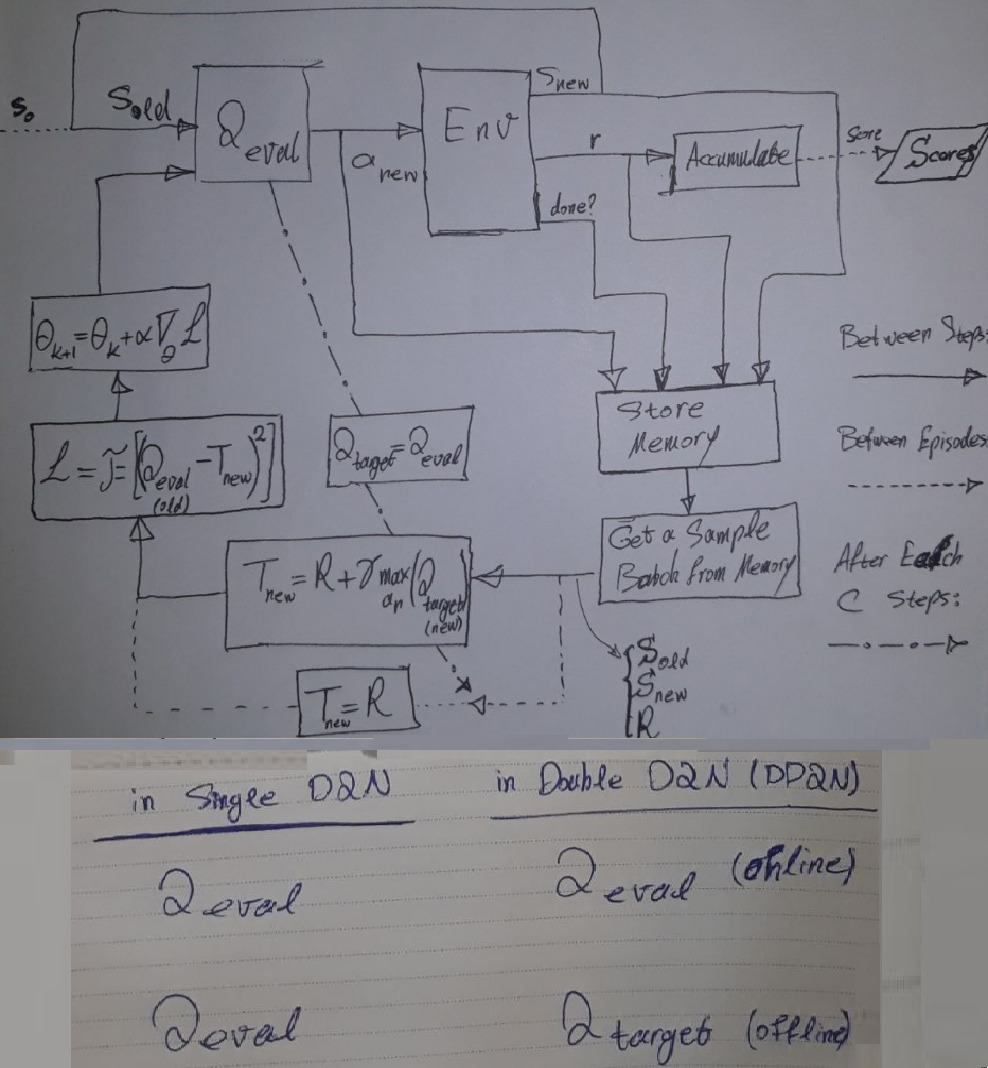
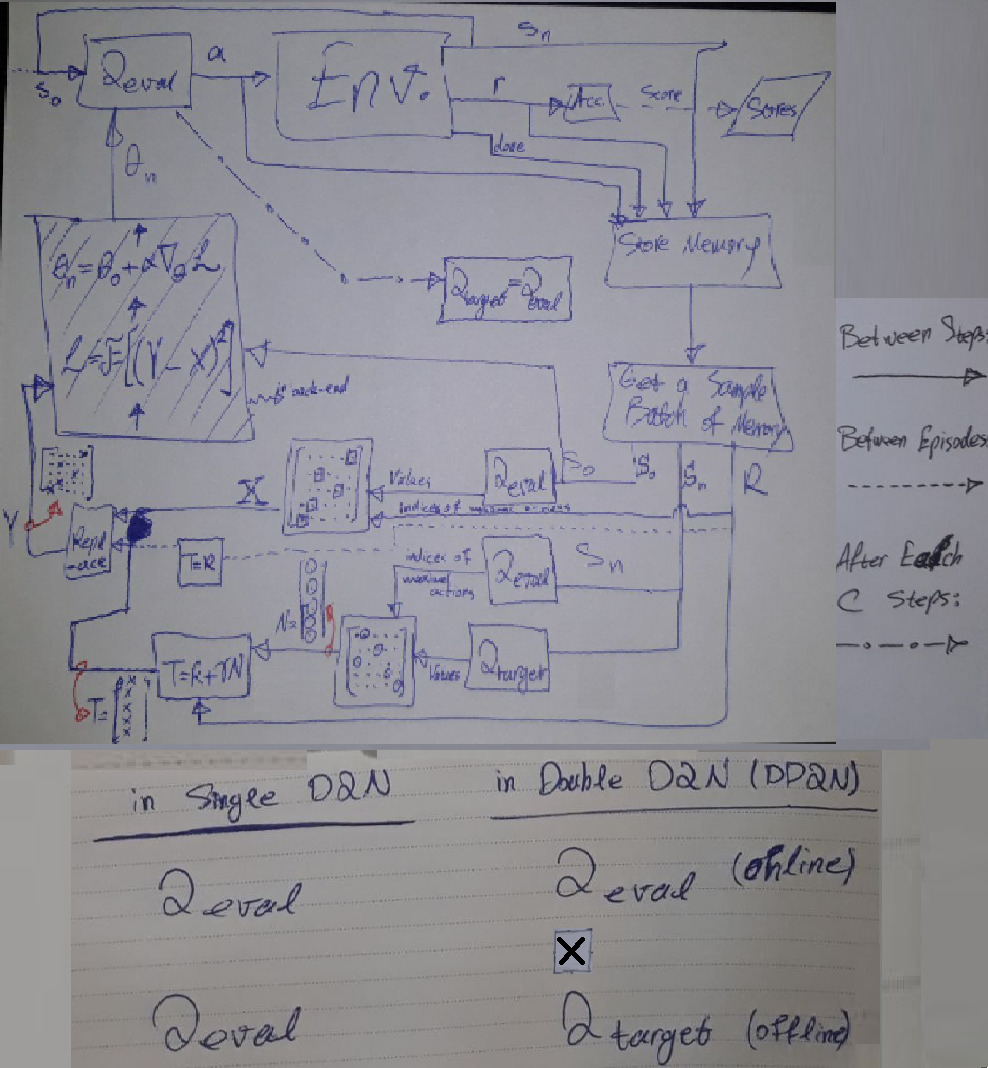
ddqn flowchart refined

Changed region(s): [[0.0, 0.0, 1.0, 0.7107], [0.5466, 0.8652, 0.6073, 0.927], [0.8198, 0.2472, 0.8502, 0.2781]]

diff --git a/samples/DRL/DQN/keras_ddqn_agent.py b/samples/DRL/DQN/keras_ddqn_agent.py
@@ -3,45 +3,24 @@ from keras.models import Sequential, load_model
 from keras.optimizers import Adam
 import numpy as np
 
-# This is a DRL agent, developed based on keras (not tf2!)
-
-# To access each "LINK", read the "README.md" in the current folder.
-
-# NOTE: The last DRL code sample has been the LINK-11 (agent) and LINK-10 (training). Thus, the 
-# code comments are continued from there
-
-
 class ReplayBuffer(object):
-
     def __init__(self, max_size, input_shape, n_actions, discrete=False):
-    
         self.mem_size = max_size
         self.mem_cntr = 0
+        self.discrete = discrete
         self.state_memory = np.zeros((self.mem_size, input_shape))
         self.new_state_memory = np.zeros((self.mem_size, input_shape))
         dtype = np.int8 if self.discrete else np.float32
         self.action_memory = np.zeros((self.mem_size, n_actions), dtype=dtype)
         self.reward_memory = np.zeros(self.mem_size)
         self.terminal_memory = np.zeros(self.mem_size, dtype=np.float32)
-        
-        self.discrete = discrete
-        # 
-        # This is for incorporating both discrete and continuous action-space cases in the agent
-        # TOPIC: (DRL/GEN) When is One-Hot Encoding Necessary?
-        # In DRL, a "one-hot encoding" is performed when the action-space (the outputs of the 
-        # neural network) is discrete; Not continuous.
-
 
     def store_transition(self, state, action, reward, state_, done):
         index = self.mem_cntr % self.mem_size
         self.state_memory[index] = state
         self.new_state_memory[index] = state_
-        
         # store one hot encoding of actions, if appropriate
         if self.discrete:
-            # TOPIC: (DRL/GEN) Performing One-Hot Encoding on the Network Outputs
-            # This is same as LINK-14/TAG-1
-            # 
             actions = np.zeros(self.action_memory.shape[1])
             actions[action] = 1.0
             self.action_memory[index] = actions
@@ -51,9 +30,6 @@ class ReplayBuffer(object):
         self.terminal_memory[index] = 1 - done
         self.mem_cntr += 1
 
-
-    # To what it is, take a look at LINK-6/TAG-5
-    # 
     def sample_buffer(self, batch_size):
         max_mem = min(self.mem_cntr, self.mem_size)
         batch = np.random.choice(max_mem, batch_size)
@@ -66,9 +42,7 @@ class ReplayBuffer(object):
 
         return states, actions, rewards, states_, terminal
 
-
 def build_dqn(lr, n_actions, input_dims, fc1_dims, fc2_dims):
-    
     model = Sequential([
                 Dense(fc1_dims, input_shape=(input_dims,)),
                 Activation('relu'),
@@ -80,41 +54,29 @@ def build_dqn(lr, n_actions, input_dims, fc1_dims, fc2_dims):
 
     return model
 
-
-
-class Agent(object):
+class DDQNAgent(object):
     def __init__(self, alpha, gamma, n_actions, epsilon, batch_size,
                  input_dims, epsilon_dec=0.996,  epsilon_end=0.01,
-                 mem_size=1000000, fname='dqn_model.h5'):
-
-        # TAG-1
-        # Definition of the discrete actions with labels as separated integer numbers
-        # 
+                 mem_size=1000000, fname='ddqn_model.h5', replace_target=100):
         self.action_space = [i for i in range(n_actions)]
-
+        self.n_actions = n_actions
         self.gamma = gamma
         self.epsilon = epsilon
         self.epsilon_dec = epsilon_dec
         self.epsilon_min = epsilon_end
         self.batch_size = batch_size
         self.model_file = fname
+        self.replace_target = replace_target
         self.memory = ReplayBuffer(mem_size, input_dims, n_actions,
                                    discrete=True)
         self.q_eval = build_dqn(alpha, n_actions, input_dims, 256, 256)
+        self.q_target = build_dqn(alpha, n_actions, input_dims, 256, 256)
 
     def remember(self, state, action, reward, new_state, done):
         self.memory.store_transition(state, action, reward, new_state, done)
 
     def choose_action(self, state):
-
-        # This is for preserving compatability for the agent in order to handle batch training as well
-        # as a feedforward pass for a single state. To avoid defining to different functions for two 
-        # different tasks. Note that the input 'state' to this function is used in other places of 
-        # the main program (for batch training so its shape is proper for that). Whereas in this
-        # function, the feedforward pass to the network is desired.
-        # 
         state = state[np.newaxis, :]
-
         rand = np.random.random()
         if rand < self.epsilon:
             action = np.random.choice(self.action_space)
@@ -129,37 +91,38 @@ class Agent(object):
             state, action, reward, new_state, done = \
                                           self.memory.sample_buffer(self.batch_size)
 
-            # TOPIC: Reverse of One-Hot Encoding
-            # The following converts the one-hot-encoded 'action' array to an integer-encoded
-            # representation (it means: each action is specified with an integer number as the 
-            # action-apace was previously defined in TAG-1)
-            # How the 'action_indices' is calculated below, is practically similar to 'actions'
-            # variable in LINK-6/TAG-2.
-            # 
             action_values = np.array(self.action_space, dtype=np.int8)
             action_indices = np.dot(action, action_values)
 
-            q_eval = self.q_eval.predict(state)
+            q_next = self.q_target.predict(new_state)
+            q_eval = self.q_eval.predict(new_state)
+            q_pred = self.q_eval.predict(state)
 
-            q_next = self.q_eval.predict(new_state)
+            max_actions = np.argmax(q_eval, axis=1)
 
-            q_target = q_eval.copy()
+            q_target = q_pred
 
             batch_index = np.arange(self.batch_size, dtype=np.int32)
 
             q_target[batch_index, action_indices] = reward + \
-                                  self.gamma*np.max(q_next, axis=1)*done
+                    self.gamma*q_next[batch_index, max_actions.astype(int)]*done
 
             _ = self.q_eval.fit(state, q_target, verbose=0)
-            # 
-            # This is how to perform the one to last line in the algorithm demonstrated in LINK-2,
-            # in keras
 
             self.epsilon = self.epsilon*self.epsilon_dec if self.epsilon > \
                            self.epsilon_min else self.epsilon_min
+            if self.memory.mem_cntr % self.replace_target == 0:
+                self.update_network_parameters()
+
+    def update_network_parameters(self):
+        self.q_target.model.set_weights(self.q_eval.model.get_weights())
 
     def save_model(self):
         self.q_eval.save(self.model_file)
 
     def load_model(self):
         self.q_eval = load_model(self.model_file)
+        # if we are in evaluation mode we want to use the best weights for
+        # q_target
+        if self.epsilon == 0.0:
+            self.update_network_parameters()

diff --git a/samples/DRL/DQN/tf2_dqn_agent.py b/samples/DRL/DQN/tf2_dqn_agent.py
@@ -65,11 +65,18 @@ class ReplayBuffer():
         self.mem_cntr += 1
 
 
-    # Have you filled the agent's memory enough? If yes, sample a buffer with the predefined 
-    # batch_size, among all the memory cells you've filled so far. If no (happens in the initial 
-    # steps), just sample from the currently filled memory cells. Not initial zero values!
+    # TAG-5
+    # TOPIC: (DRL/GEN) The Experience Replay
+    # This is sampling a buffer from the agent's memory to train it on that (not on a single-step)
+    # in every step of training
+    # Refer to 'LINK-1/Modification2:Replay_Buffer' for theoretical backgrounds
     # 
     def sample_buffer(self, batch_size):
+
+        # Have you filled the agent's memory enough? If yes, sample a buffer with the predefined 
+        # batch_size, among all the memory cells you've filled so far. If no (happens in the initial 
+        # steps), just sample from the currently filled memory cells. Not initial zero values!
+        # 
         max_mem = min(self.mem_cntr, self.mem_size)
 
         # Generate an array with size: 'batch_size' while its elements are numbers in range(max_mem). 
@@ -120,13 +127,17 @@ class Agent():
         # 
         self.eps_dec = epsilon_dec
 
-        # The limit for the epsilon so that it doesn't become zero (Refer to LINK-1 to understand why)
+        # The limit for the epsilon so that it doesn't become zero (Refer to LINK-1 to understand 
+        # why)
         # 
         self.eps_min = epsilon_end
 
+        self.q_eval = build_dqn(lr, n_actions, input_dims, 256, 256)
+        # 
+        # The number of nodes for each fully-connected layer (256) is obtained intuitively
+
         self.batch_size = batch_size
         self.memory = ReplayBuffer(mem_size, input_dims)
-        self.q_eval = build_dqn(lr, n_actions, input_dims, 256, 256)
 
 
     # An interface between the agent and its memory
@@ -184,7 +195,8 @@ class Agent():
         # be obtained from the target network (called Q_next in LINK-4). Take a look at LINK-5 
         # for a better understanding.
 
-        # (TAG-2) This is the implementation of the if-else structure seen in the basic algorithm
+        # TAG-2
+        # This is the implementation of the if-else structure seen in the basic algorithm
         # of DQN (demonstrated in LINK-2)
         # 
         q_target = np.copy(q_eval)
@@ -198,7 +210,7 @@ class Agent():
         # The target formula
 
         # Updating the network's parameters based on the gradient ascent approach - One to last 
-        # line the algorithm demonstrated in LINK-2
+        # line in the algorithm demonstrated in LINK-2
         # 
         self.q_eval.train_on_batch(states, q_target)
 

diff --git a/samples/DRL/reinforce/keras_policy_gradient_agent.py b/samples/DRL/reinforce/keras_policy_gradient_agent.py
@@ -64,7 +64,7 @@ class Agent(object):
         # policy function actually returns). Thus, a 'softmax' activation function is required (
         # -> LINK-6).
 
-        # TOPIC: (DRL) A Custom Loss Function in Keras (no tf)
+        # TOPIC: (DRL/GEN) A Custom Loss Function in Keras (no tf)
         # The desired loss function for this policy-function-estimator network is not present in 
         # keras. Thus, it is defined here. No other part of the class needs access to this function. 
         # So a nested function is defined.
@@ -90,7 +90,7 @@ class Agent(object):
 
         policy.compile(optimizer=Adam(lr=self.lr), loss=custom_loss)
 
-        # TOPIC: Defining the mirror network in DRL
+        # TOPIC: (DRL/PG) Defining a mirror network
         # Not that, during training the first network, the weights are to be updated online. While 
         # the second network (mirror) is just to be used to do the predictions. So, the inputs to two 
         # networks are different. 
@@ -142,7 +142,8 @@ class Agent(object):
         action_memory = np.array(self.action_memory)
         reward_memory = np.array(self.reward_memory)
 
-        # TOPIC: Performing One-Hot Encoding on the Network Outputs
+        # TAG-1
+        # TOPIC: (DRL/GEN) Performing One-Hot Encoding on the Network Outputs
         # Each single-action (referred to a time-step) is one-hot encoded. For more details, refer to
         # LINK-8
         # 
@@ -162,7 +163,7 @@ class Agent(object):
                 discount *= self.gamma
             G[t] = G_sum
         
-        # TOPIC: Zero-Based Normalization on Network Inputs
+        # TOPIC: (DRL/GEN) Zero-Based Normalization on Network Inputs
         # A zero-based normalization is done on the discounted rewards. That's because generally, the
         # rewards may be much different; Thus must be normalized
         # 
@@ -172,10 +173,10 @@ class Agent(object):
         # 
         # The second line is to avoid "devide-by-zero" situation
 
-        # TOPIC: Network Inputs in DRL
-        # Notice that the network which is being trained online receives two inputs: time history of 
-        # states (observations) and rewards. Despite the mirrored network which is used in evaluation 
-        # and only receives the states
+        # TOPIC: (DRL/PG) Network Inputs in DRL
+        # Notice that the network which is being trained online receives two inputs: time history 
+        # of states (observations) and rewards. Despite the mirrored network which is used in 
+        # evaluation and only receives the states
         # 
         cost = self.policy.train_on_batch([state_memory, self.G], actions)
 

diff --git a/samples/DRL/DQN/keras_dqn_training.py b/samples/DRL/DQN/keras_dqn_training.py
@@ -1,0 +1,46 @@
+from simple_dqn_keras import Agent
+import numpy as np
+import gym
+from utils import plotLearning
+from gym import wrappers
+
+if __name__ == '__main__':
+    env = gym.make('LunarLander-v2')
+    lr = 0.0005
+    n_games = 500
+    agent = Agent(gamma=0.99, epsilon=0.0, alpha=lr, input_dims=8,
+                  n_actions=4, mem_size=1000000, batch_size=64, epsilon_end=0.0)
+
+    agent.load_model()
+    scores = []
+    eps_history = []
+
+    #env = wrappers.Monitor(env, "tmp/lunar-lander-6",
+    #                         video_callable=lambda episode_id: True, force=True)
+
+    for i in range(n_games):
+        done = False
+        score = 0
+        observation = env.reset()
+        while not done:
+            action = agent.choose_action(observation)
+            observation_, reward, done, info = env.step(action)
+            score += reward
+            agent.remember(observation, action, reward, observation_, int(done))
+            observation = observation_
+            agent.learn()
+
+        eps_history.append(agent.epsilon)
+        scores.append(score)
+
+        avg_score = np.mean(scores[max(0, i-100):(i+1)])
+        print('episode: ', i,'score: %.2f' % score,
+              ' average score %.2f' % avg_score)
+
+        if i % 10 == 0 and i > 0:
+            agent.save_model()
+
+    filename = 'lunarlander.png'
+
+    x = [i+1 for i in range(n_games)]
+    plotLearning(x, scores, eps_history, filename)

diff --git a/README.md b/README.md
@@ -31,7 +31,7 @@ For DRL documents, go to directory: `notes/DRL/`. The order of documents (`.md` 
 2. [DQN](https://github.com/hamidrezafahimi/ann_basix/blob/master/notes/DRL/DQN.md)
 3. [PG](https://github.com/hamidrezafahimi/ann_basix/blob/master/notes/DRL/Policy-Gradients.md)
 
-After reviewing the notes, for DRL scripts, go to directory: `samples/DRL/`.The order of codes (`.py` files) is as follows:
+After reviewing the notes, for DRL scripts, go to directory: `samples/DRL/`.The order of codes (`.py` files) is as follows. This is how I dicumented the codes and the code comments are continued in this order:
 
 1. [PG Agent (tf2)](https://github.com/hamidrezafahimi/ann_basix/blob/master/samples/DRL/reinforce/tf2_policy_gradient_agent.py) (---> 
 [network](https://github.com/hamidrezafahimi/ann_basix/blob/master/samples/DRL/reinforce/tf2_policy_gradient_network.py) -
@@ -43,6 +43,7 @@ After reviewing the notes, for DRL scripts, go to directory: `samples/DRL/`.The 
 
 3. [Simple DDQN Agent with CNN (keras)](https://github.com/hamidrezafahimi/ann_basix/blob/master/samples/DRL/DQN/keras_ddqn_cnn_agent.py)  (Make sure to see the [trainging](https://github.com/hamidrezafahimi/ann_basix/blob/master/samples/DRL/DQN/keras_ddqn_cnn_training.py) code)
 
+4. [Simple DQN Agent (keras)](https://github.com/hamidrezafahimi/ann_basix/blob/master/samples/DRL/DQN/keras_dqn_agent.py)  (---> [trainging](https://github.com/hamidrezafahimi/ann_basix/blob/master/samples/DRL/DQN/keras_dqn_training.py) code)
 
 
 ## Summary of Resources

diff --git a/notes/DRL/DQN.md b/notes/DRL/DQN.md
@@ -147,7 +147,7 @@ There is a good explanation of this algorithm [here](https://www.youtube.com/wat
   <img src="https://github.com/hamidrezafahimi/ann_basix/blob/master/figs/revised_dqn.png?raw=true", width="600"/>
 </p>
 
-The following flowchart shows a brief review of how a DQN is trained. 
+The following flowchart shows a brief review of how a DQN (or DDQN) is trained. 
 
 <p align="center">
   <img src="https://github.com/hamidrezafahimi/ann_basix/blob/master/figs/DQN_algorithm.png?raw=true", width="600"/>

diff --git a/samples/DRL/DQN/README.md b/samples/DRL/DQN/README.md
@@ -27,3 +27,6 @@ Rferenced links;
 [LINK-12](https://github.com/hamidrezafahimi/ann_basix/blob/master/samples/DRL/reinforce/tf2_policy_gradient_agent.py)
 
 [LINK-13](https://github.com/hamidrezafahimi/ann_basix/blob/master/platforms/gym/modification_on_2d_env.py)
+
+[LINK-14](https://github.com/hamidrezafahimi/ann_basix/blob/master/samples/DRL/reinforce/keras_policy_gradient_agent.py)
+
